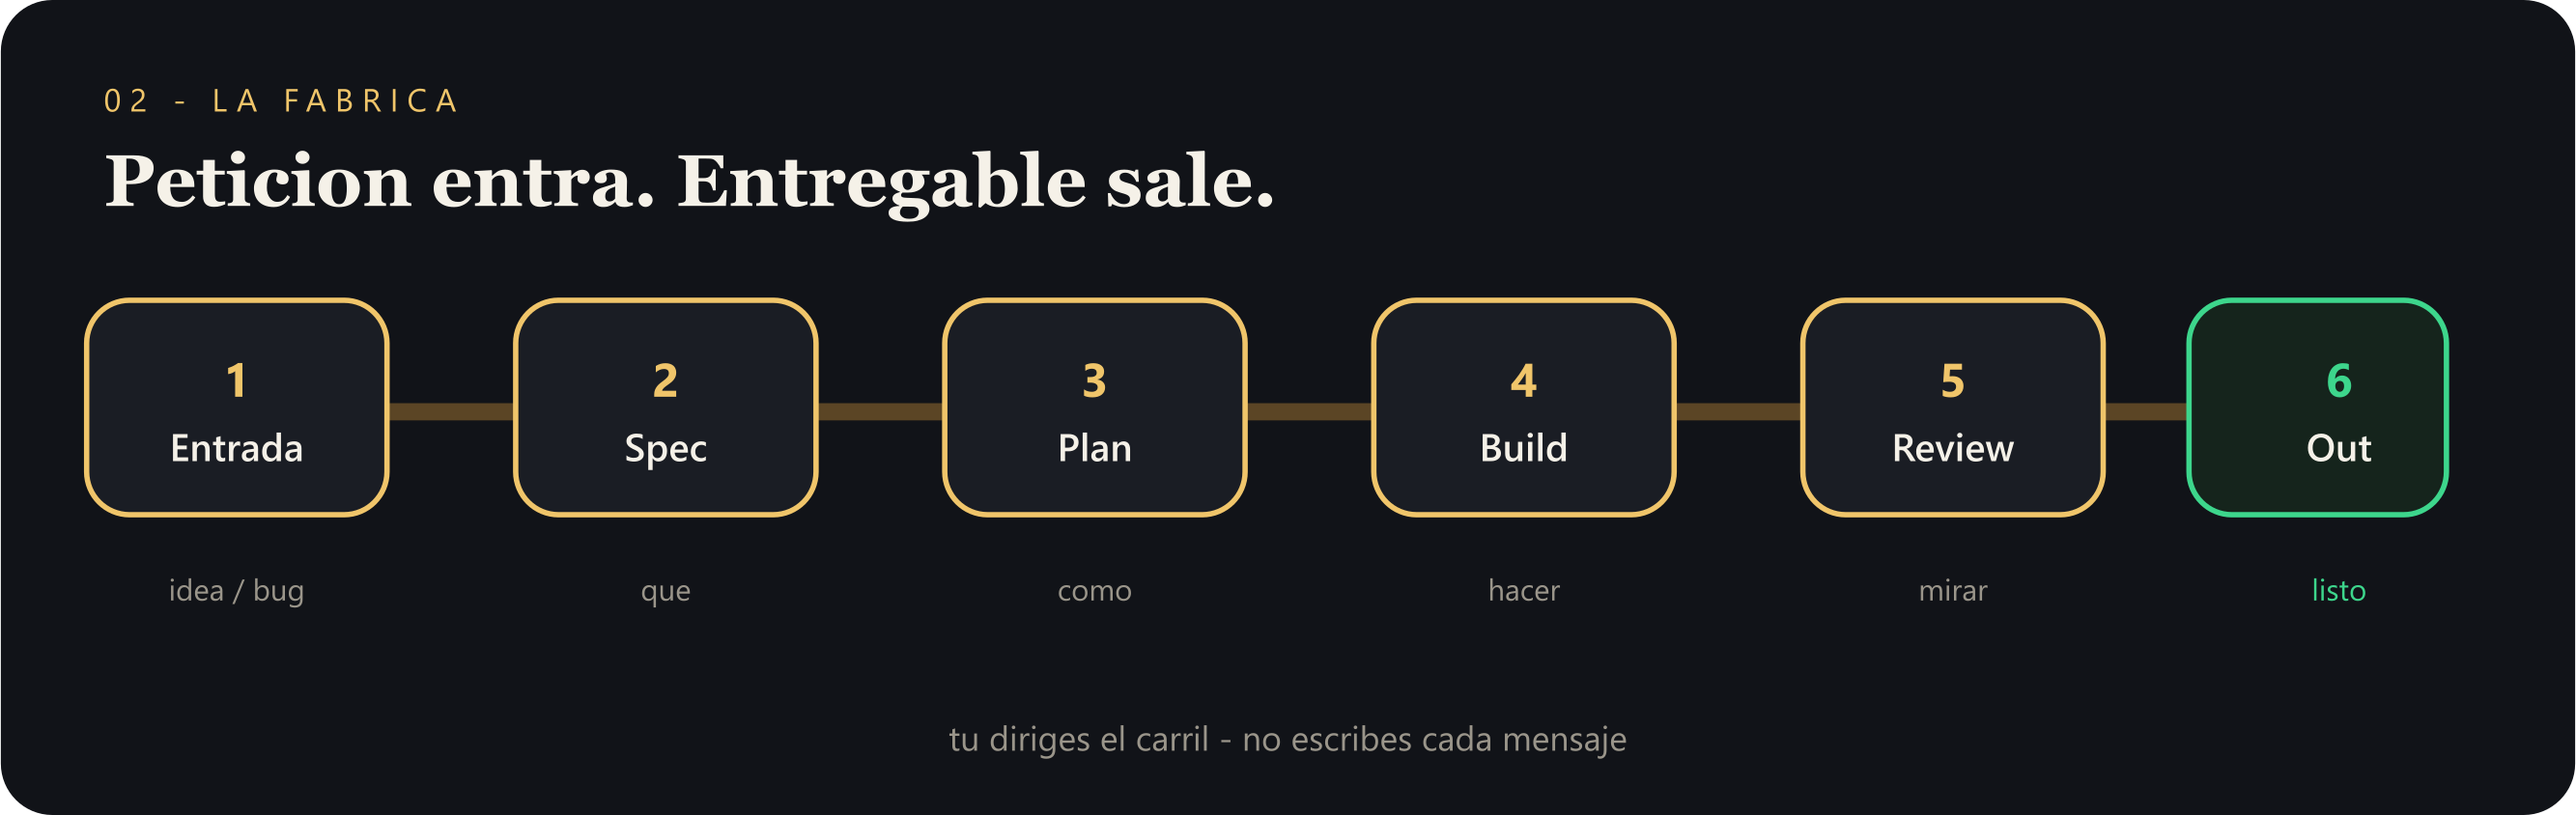
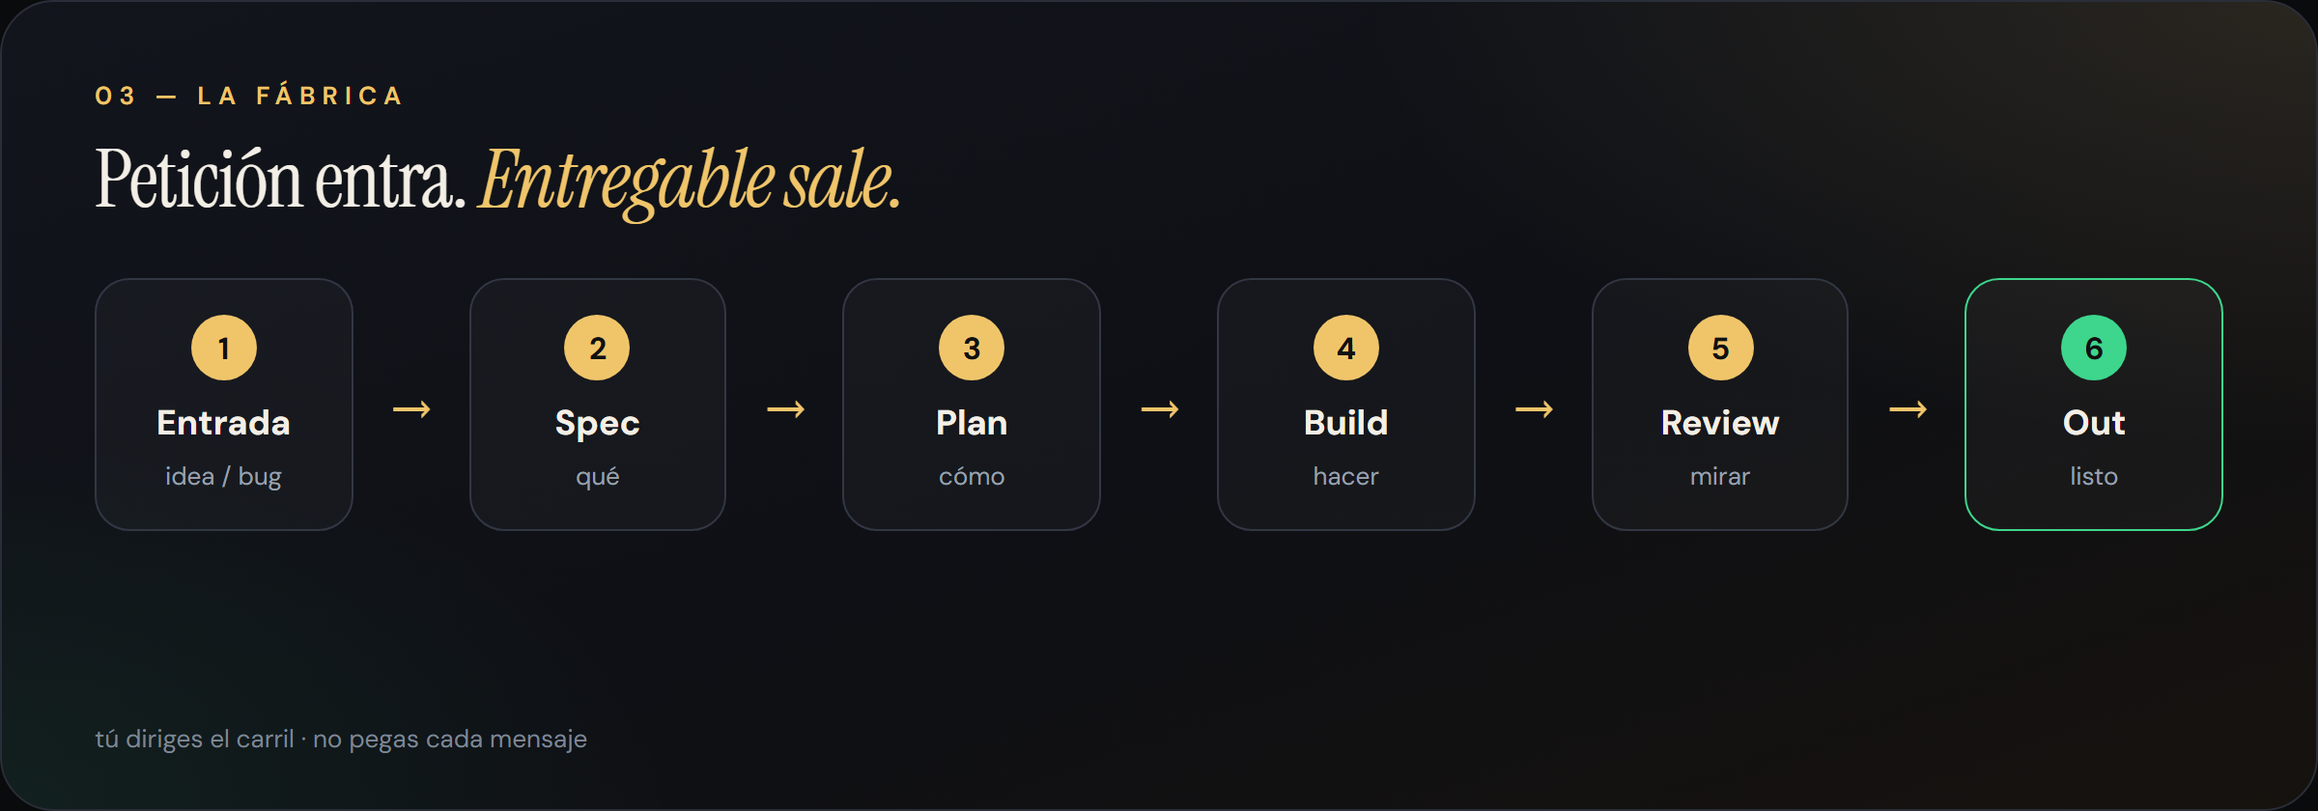
Replace diagrams with high-res pro visual boards

diff --git a/assets/boards.html b/assets/boards.html
@@ -1,0 +1,123 @@
+<!DOCTYPE html>
+<html lang="es">
+<head>
+<meta charset="utf-8"/>
+<style>
+  @import url('https://fonts.googleapis.com/css2?family=Instrument+Serif:ital@0;1&family=DM+Sans:wght@400;500;600;700&display=swap');
+  *{box-sizing:border-box;margin:0;padding:0}
+  body{background:#0a0b0d;color:#f4efe6;font-family:'DM Sans',system-ui,sans-serif}
+  .board{
+    width:1200px;height:420px;margin:24px;padding:40px 48px;
+    border-radius:28px;position:relative;overflow:hidden;
+    background:
+      radial-gradient(900px 420px at 100% 0%, rgba(240,197,106,.12), transparent 55%),
+      radial-gradient(700px 380px at 0% 100%, rgba(61,214,140,.08), transparent 50%),
+      linear-gradient(160deg,#12151c 0%,#0e1015 55%,#16120e 100%);
+    border:1px solid #2a2e38;
+  }
+  .kicker{font-size:13px;letter-spacing:.28em;text-transform:uppercase;color:#f0c56a;font-weight:600;margin-bottom:12px}
+  h1{font-family:'Instrument Serif',Georgia,serif;font-size:42px;font-weight:400;letter-spacing:-.02em;line-height:1.1;margin-bottom:28px}
+  h1 em{font-style:italic;color:#f0c56a}
+  .row{display:flex;gap:18px;align-items:stretch}
+  .pill{
+    flex:1;border-radius:18px;padding:18px 16px;background:rgba(255,255,255,.03);
+    border:1px solid #323744;text-align:center;position:relative
+  }
+  .pill .n{display:inline-grid;place-items:center;width:34px;height:34px;border-radius:999px;background:#f0c56a;color:#111;font-weight:700;margin-bottom:10px}
+  .pill b{display:block;font-size:18px;margin-bottom:4px}
+  .pill span{color:#9aa1ae;font-size:13px}
+  .arrow{
+    align-self:center;color:#f0c56a;font-size:28px;font-weight:700;flex:0 0 auto
+  }
+  .chat{display:flex;flex-direction:column;gap:12px;max-width:420px}
+  .bubble{padding:14px 16px;border-radius:16px;font-size:16px;width:fit-content;max-width:90%}
+  .you{align-self:flex-end;background:#2a3548}
+  .bot{align-self:flex-start;background:#1a1f29;border:1px solid #323744;color:#aeb6c5}
+  .badge{
+    position:absolute;right:56px;top:140px;width:160px;height:160px;border-radius:50%;
+    border:3px solid #ff6b4a;display:grid;place-items:center;background:#2a1515
+  }
+  .badge strong{font-family:'Instrument Serif',serif;font-size:64px;color:#ff6b4a;line-height:1}
+  .badge small{color:#ffb4a4;letter-spacing:.2em;font-size:12px}
+  .split{display:grid;grid-template-columns:1fr 80px 1fr;gap:12px;align-items:center}
+  .box{
+    border-radius:22px;padding:28px 20px;text-align:center;border:2px solid
+  }
+  .bad{background:#2a1515;border-color:#ff6b4a}
+  .good{background:#13251c;border-color:#3dd68c}
+  .box .l{font-size:12px;letter-spacing:.2em;margin-bottom:8px}
+  .box .t{font-family:'Instrument Serif',serif;font-size:36px}
+  .hub{
+    width:140px;height:140px;border-radius:50%;margin:0 auto 18px;
+    display:grid;place-items:center;border:2px solid #f0c56a;background:#241c12
+  }
+  .grid4{display:grid;grid-template-columns:repeat(4,1fr);gap:14px}
+  .card{border:1px solid #323744;border-radius:18px;padding:18px;background:rgba(255,255,255,.03);text-align:center}
+  .card b{display:block;font-size:18px;margin-bottom:6px}
+  .card span{color:#9aa1ae;font-size:13px}
+  .tiny{position:absolute;left:48px;bottom:28px;color:#7f8694;font-size:13px}
+</style>
+</head>
+<body>
+
+<section class="board" id="hero">
+  <div class="kicker">Software Factory</div>
+  <h1 style="font-size:56px;max-width:14ch;margin-top:20px">Dejar de chatear.<br/><em>Empezar a orquestar.</em></h1>
+  <p class="tiny">Modelo visual · sin receta · solo la idea</p>
+</section>
+
+<section class="board" id="problema">
+  <div class="kicker">01 — El problema</div>
+  <h1>Tú en medio del chat. <em>Para siempre.</em></h1>
+  <div class="chat">
+    <div class="bubble you">tú → haz esto…</div>
+    <div class="bubble bot">agente → ¿y esto otro?</div>
+    <div class="bubble you">tú → corrige otra vez…</div>
+  </div>
+  <div class="badge"><div><strong>∞</strong><div><small>LOOP</small></div></div>
+  <p class="tiny">sin roles · sin rastro · sin salida</p>
+</section>
+
+<section class="board" id="salto">
+  <div class="kicker">02 — El salto</div>
+  <h1>Mismo agente. <em>Otro sistema.</em></h1>
+  <div class="split">
+    <div class="box bad"><div class="l" style="color:#ffb4a4">ANTES</div><div class="t">Chatear</div></div>
+    <div style="text-align:center;font-size:42px;color:#f0c56a">→</div>
+    <div class="box good"><div class="l" style="color:#9be7c0">DESPUÉS</div><div class="t">Orquestar</div></div>
+  </div>
+</section>
+
+<section class="board" id="pipeline">
+  <div class="kicker">03 — La fábrica</div>
+  <h1>Petición entra. <em>Entregable sale.</em></h1>
+  <div class="row">
+    <div class="pill"><div class="n">1</div><b>Entrada</b><span>idea / bug</span></div>
+    <div class="arrow">→</div>
+    <div class="pill"><div class="n">2</div><b>Spec</b><span>qué</span></div>
+    <div class="arrow">→</div>
+    <div class="pill"><div class="n">3</div><b>Plan</b><span>cómo</span></div>
+    <div class="arrow">→</div>
+    <div class="pill"><div class="n">4</div><b>Build</b><span>hacer</span></div>
+    <div class="arrow">→</div>
+    <div class="pill"><div class="n">5</div><b>Review</b><span>mirar</span></div>
+    <div class="arrow">→</div>
+    <div class="pill" style="border-color:#3dd68c"><div class="n" style="background:#3dd68c">6</div><b>Out</b><span>listo</span></div>
+  </div>
+  <p class="tiny">tú diriges el carril · no pegas cada mensaje</p>
+</section>
+
+<section class="board" id="roles">
+  <div class="kicker">04 — Roles</div>
+  <h1>Cada agente, <em>un oficio.</em></h1>
+  <div class="hub"><div style="text-align:center"><b style="color:#f0c56a">CONTEXTO</b><div style="color:#9aa1ae;font-size:12px;margin-top:4px">memoria</div></div></div>
+  <div class="grid4">
+    <div class="card"><b>Spec</b><span>define el qué</span></div>
+    <div class="card"><b>Plan</b><span>ordena el cómo</span></div>
+    <div class="card"><b>Build</b><span>construye</span></div>
+    <div class="card"><b>Review</b><span>revisa / gate</span></div>
+  </div>
+</section>
+
+</body>
+</html>
